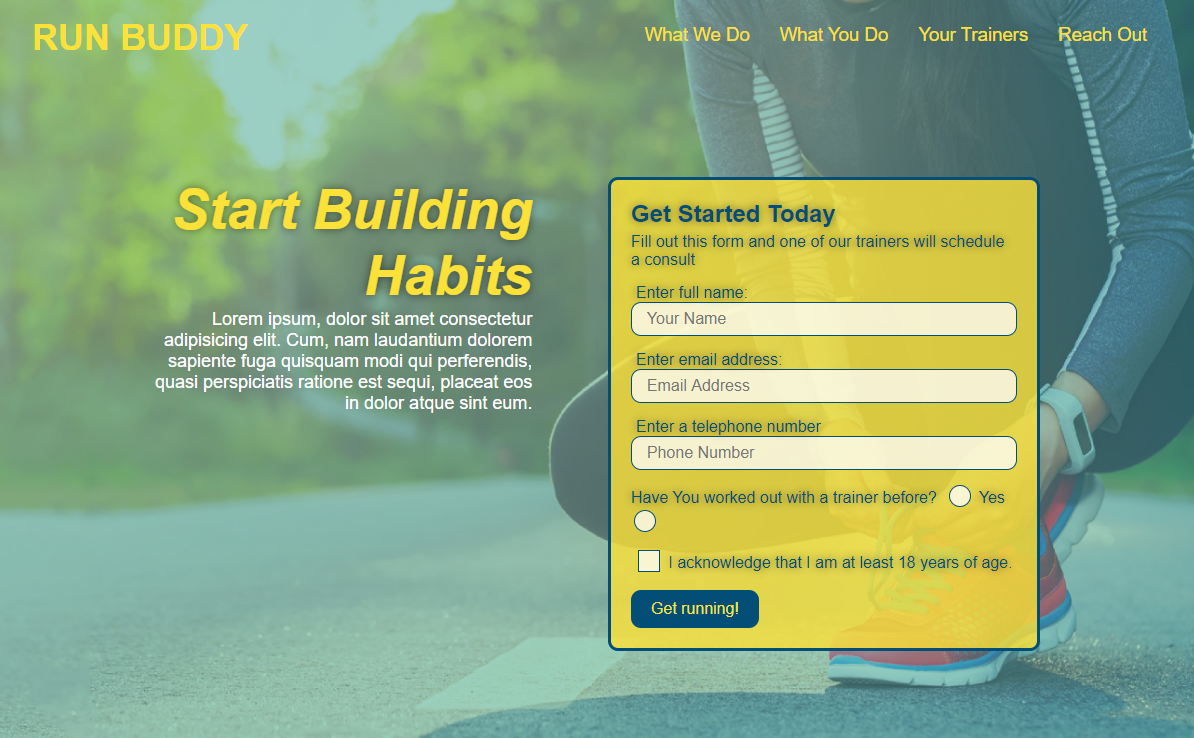
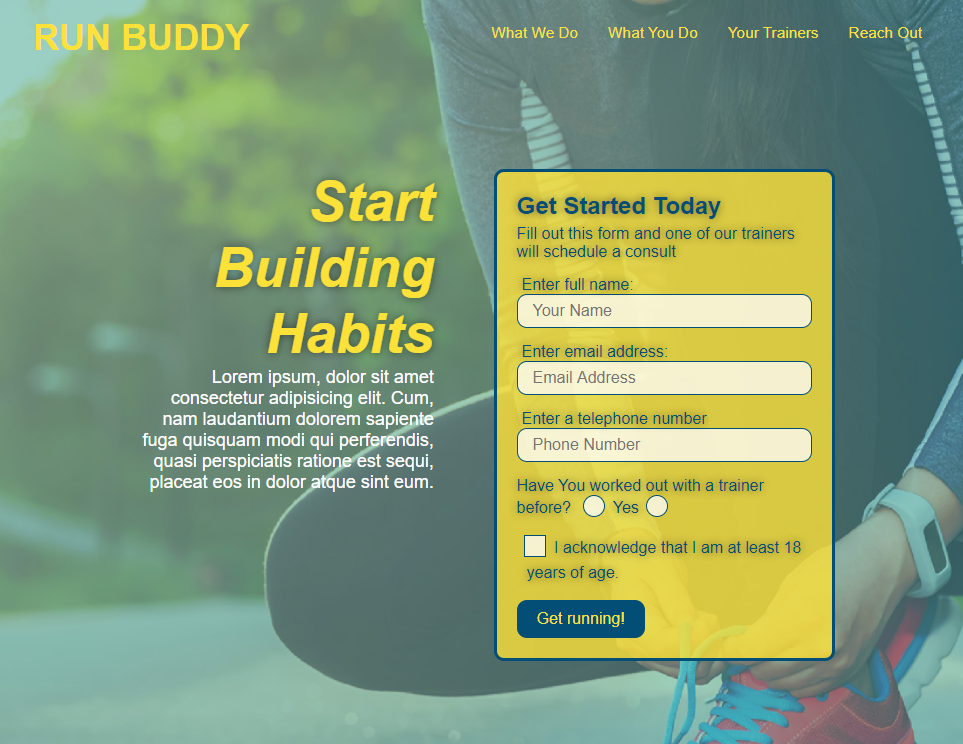
added my work section

diff --git a/index.html b/index.html
@@ -70,15 +70,16 @@
     <!--my work section-->
     <section class="my-work" id="my-work">
 
+        <h1>My Work.</h1>
+
         <div class="cards">
             <div class="card">
                 <div class="content">
-                    <img src="./assets/images/runbuddy.png" class="imgsize" alt="run buddy">
+                    <a href="https://jshmtchll.github.io/run-buddy/">
+                        <img src="./assets/images/runbuddy.png" class="imgsize" alt="run buddy">
+                    </a>    
                     <h3>Run Buddy</h3>
-                    <p>Lorem ipsum dolor sit amet consectetur adipisicing elit. 
-                        Corrupti accusantium a, praesentium dignissimos obcaecati 
-                        id quam odio suscipit facilis, qui exercitationem harum soluta. 
-                        Impedit delectus dignissimos officia perferendis sapiente fuga?
+                    <p>
                     </p>
                 </div>
             </div>
@@ -87,11 +88,8 @@
             <div class="card">
                 <div class="content">
                     <img src="./assets/images/runbuddy.png" class="imgsize" alt="run buddy">
-                    <h3>Run Buddy</h3>
-                    <p>Lorem ipsum dolor sit amet consectetur adipisicing elit. 
-                        Corrupti accusantium a, praesentium dignissimos obcaecati 
-                        id quam odio suscipit facilis, qui exercitationem harum soluta. 
-                        Impedit delectus dignissimos officia perferendis sapiente fuga?
+                    <h3>Horiseon</h3>
+                    <p>
                     </p>
                 </div>
             </div>
@@ -100,10 +98,16 @@
                 <div class="content">
                     <img src="./assets/images/runbuddy.png" class="imgsize" alt="run buddy">
                     <h3>Run Buddy</h3>
-                    <p>Lorem ipsum dolor sit amet consectetur adipisicing elit. 
-                        Corrupti accusantium a, praesentium dignissimos obcaecati 
-                        id quam odio suscipit facilis, qui exercitationem harum soluta. 
-                        Impedit delectus dignissimos officia perferendis sapiente fuga?
+                    <p>
+                    </p>
+                </div>
+            </div>
+
+            <div class="card">
+                <div class="content">
+                    <img src="./assets/images/runbuddy.png" class="imgsize" alt="run buddy">
+                    <h3>Run Buddy</h3>
+                    <p>
                     </p>
                 </div>
             </div>

diff --git a/styles.css b/styles.css
@@ -16,7 +16,6 @@ header {
     background-attachment: fixed;
     background-position: 80%;
     z-index: 999;
-    width: 100vw;
     
 }
 
@@ -28,8 +27,11 @@ header h1 a {
     display: flex;
     align-items: flex-end;
     margin-left: 30px;
-    
-}
+    animation-name: jm;
+    animation-duration: 6s;
+
+    }
+
 
 header a {
     text-decoration: none;
@@ -68,7 +70,6 @@ body {
 }
 
 .hero {
-    width: 100vw;
     height: 100vh;
     display:flex;
     justify-content: center;
@@ -120,7 +121,6 @@ body {
     justify-content: center;
     align-items: center;
     text-align: center;
-    width: 100vw;
     padding-bottom: 20px;
 }
 
@@ -140,6 +140,15 @@ body {
     border:0px solid black;
 }
 
+.about-me-content  {
+    max-width: 800px;
+}
+
+.about-me p {
+    text-align: center;
+    line-height: 1.8;
+}
+
 .about-me .about-btn {
     display: block;
     width: 200px;
@@ -157,28 +166,71 @@ body {
 /*my work begin*/
 .my-work {
     background-color: rgb(31, 29, 29);
+    background-image: url(./assets/images/clouded-bg.jpg);
+    background-size: cover;
+    background-position: center;
+    background-attachment: fixed;
+    background-position: 80%;
     
 }
 
+.my-work h1 {
+    color: white;
+    text-align: center;
+    padding-top: 70px;
+    font-size: 60px;
+}
+
 .cards {
+    padding-top: 40px;
+    padding-right: 40px;
+    padding-left: 40px;
     width: 100%;
-    margin: 0 auto;
     display: flex;
     flex-wrap: wrap;
-    justify-content: space-around;
-    flex-direction: row;
+    justify-content:center;
+    align-items:center;
+    flex-direction:row ;
+    
+
 }
 
 
 .cards img {
     width: 100%;
+    filter: grayscale(100%);
+}
+
+.cards img:hover {
+    filter: grayscale(0%);
+    transition-duration: 2s;
 }
 
 .card {
-    flex:;
     width: 25%;
     background-color: blanchedalmond;
-    margin: 20px;
-    
+    margin: 10px;
+    display: inline-block;
+    text-align: center;
+    border: 1px solid;
+    padding: 10px;
+    box-shadow: 10px 10px 10px grey;
+}
+
+.card:first-child {
+    flex: 1 1 400px;
+    width: 50%;
+}
+
+.card:not(:first-child) {
+    flex: 1 1 300px;
+    max-width: 60%;
     
 }
+
+
+
+  @keyframes jm {
+    from {color: rgb(24, 23, 23);}
+    to {color: rgb(255, 255, 255);
+    }
